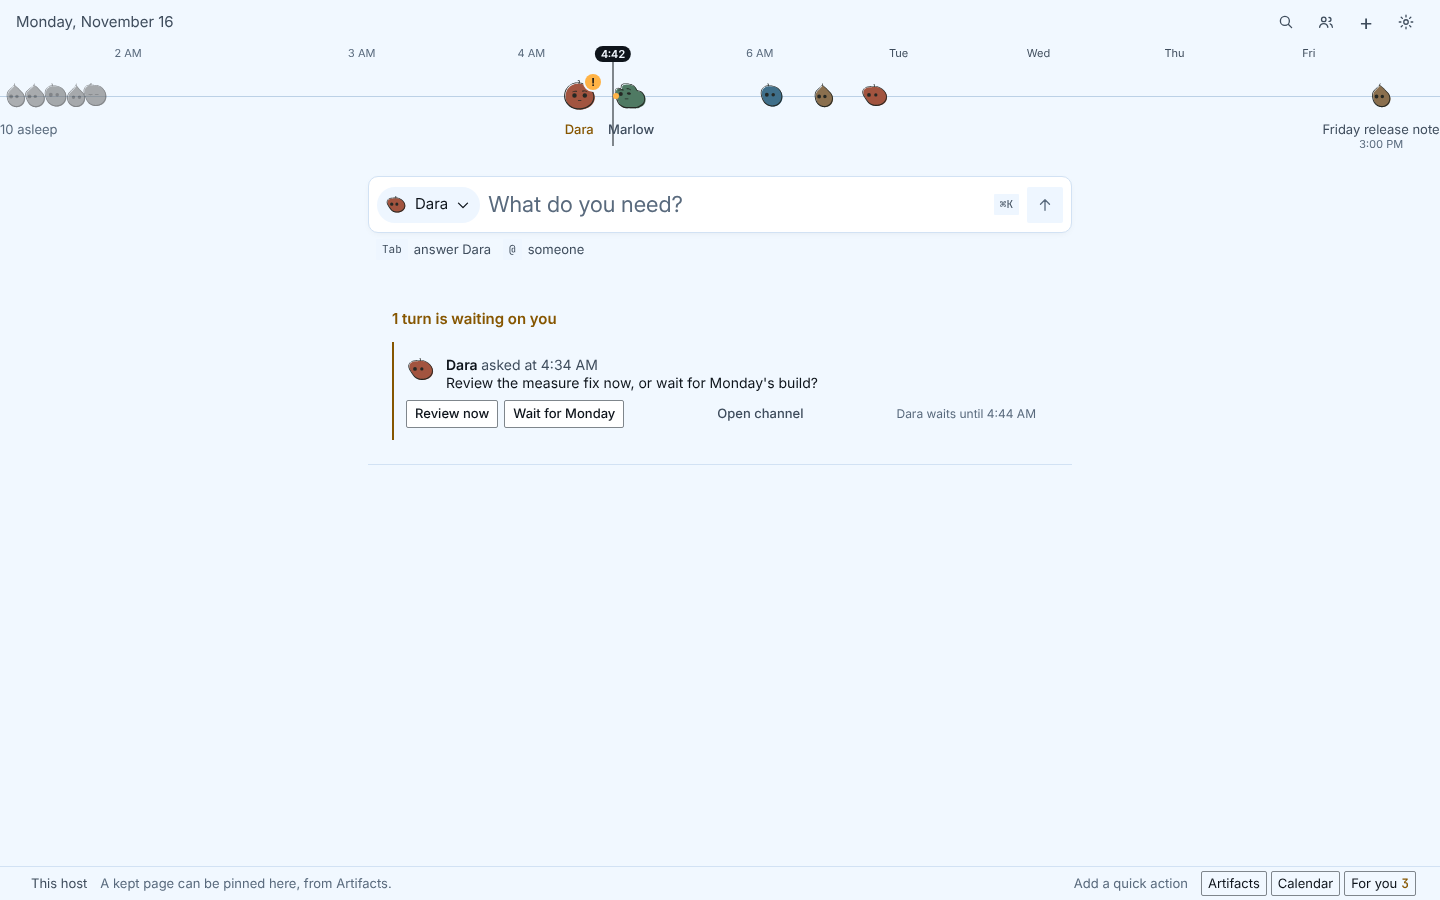
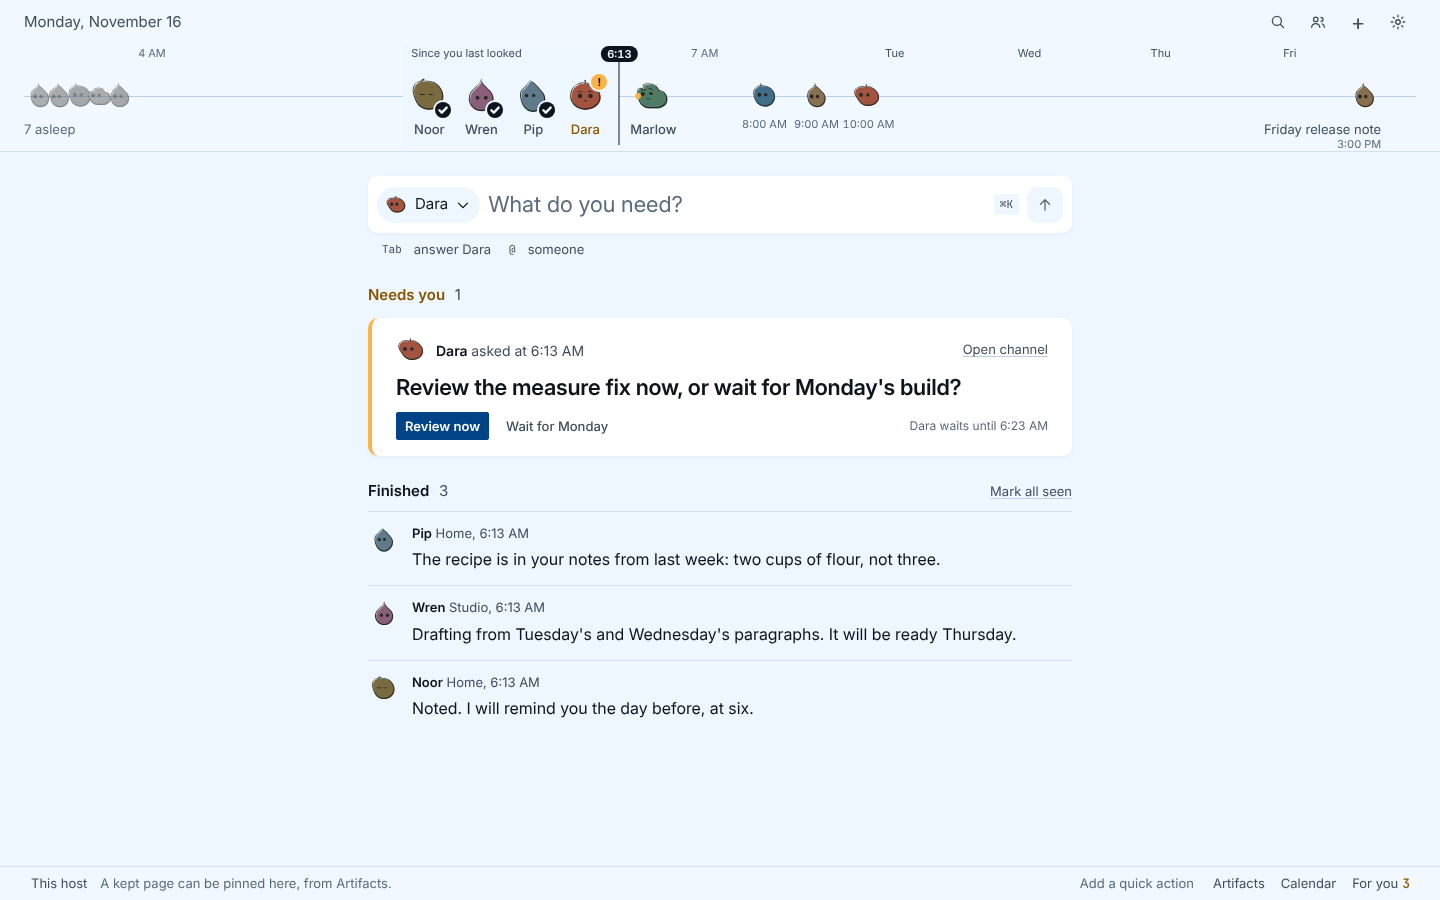
Retake the README pictures from the finished window

diff --git a/README.md b/README.md
@@ -5,7 +5,7 @@
 
 **A quiet group of AI agents on your own machine. It works out of sight and tells you only what matters.**
 
-![Guaca's window: a timeline of the group's agents across the top, with Dara asking a question and Marlow at work, the box for writing to an agent under it, and Dara's question waiting for an answer.](docs/img/guaca.png)
+![Guaca's window: a timeline of the group's agents across the top, with Noor, Wren and Pip finished since you last looked, Dara asking a question and Marlow at work, the box for writing to an agent under it, Dara's question waiting for an answer, and the three finished runs below.](docs/img/guaca.png)
 
 Guaca is a group of agents you run yourself. You ask one, and they hand work to
 each other and settle it between themselves. You don't have to watch. A question
